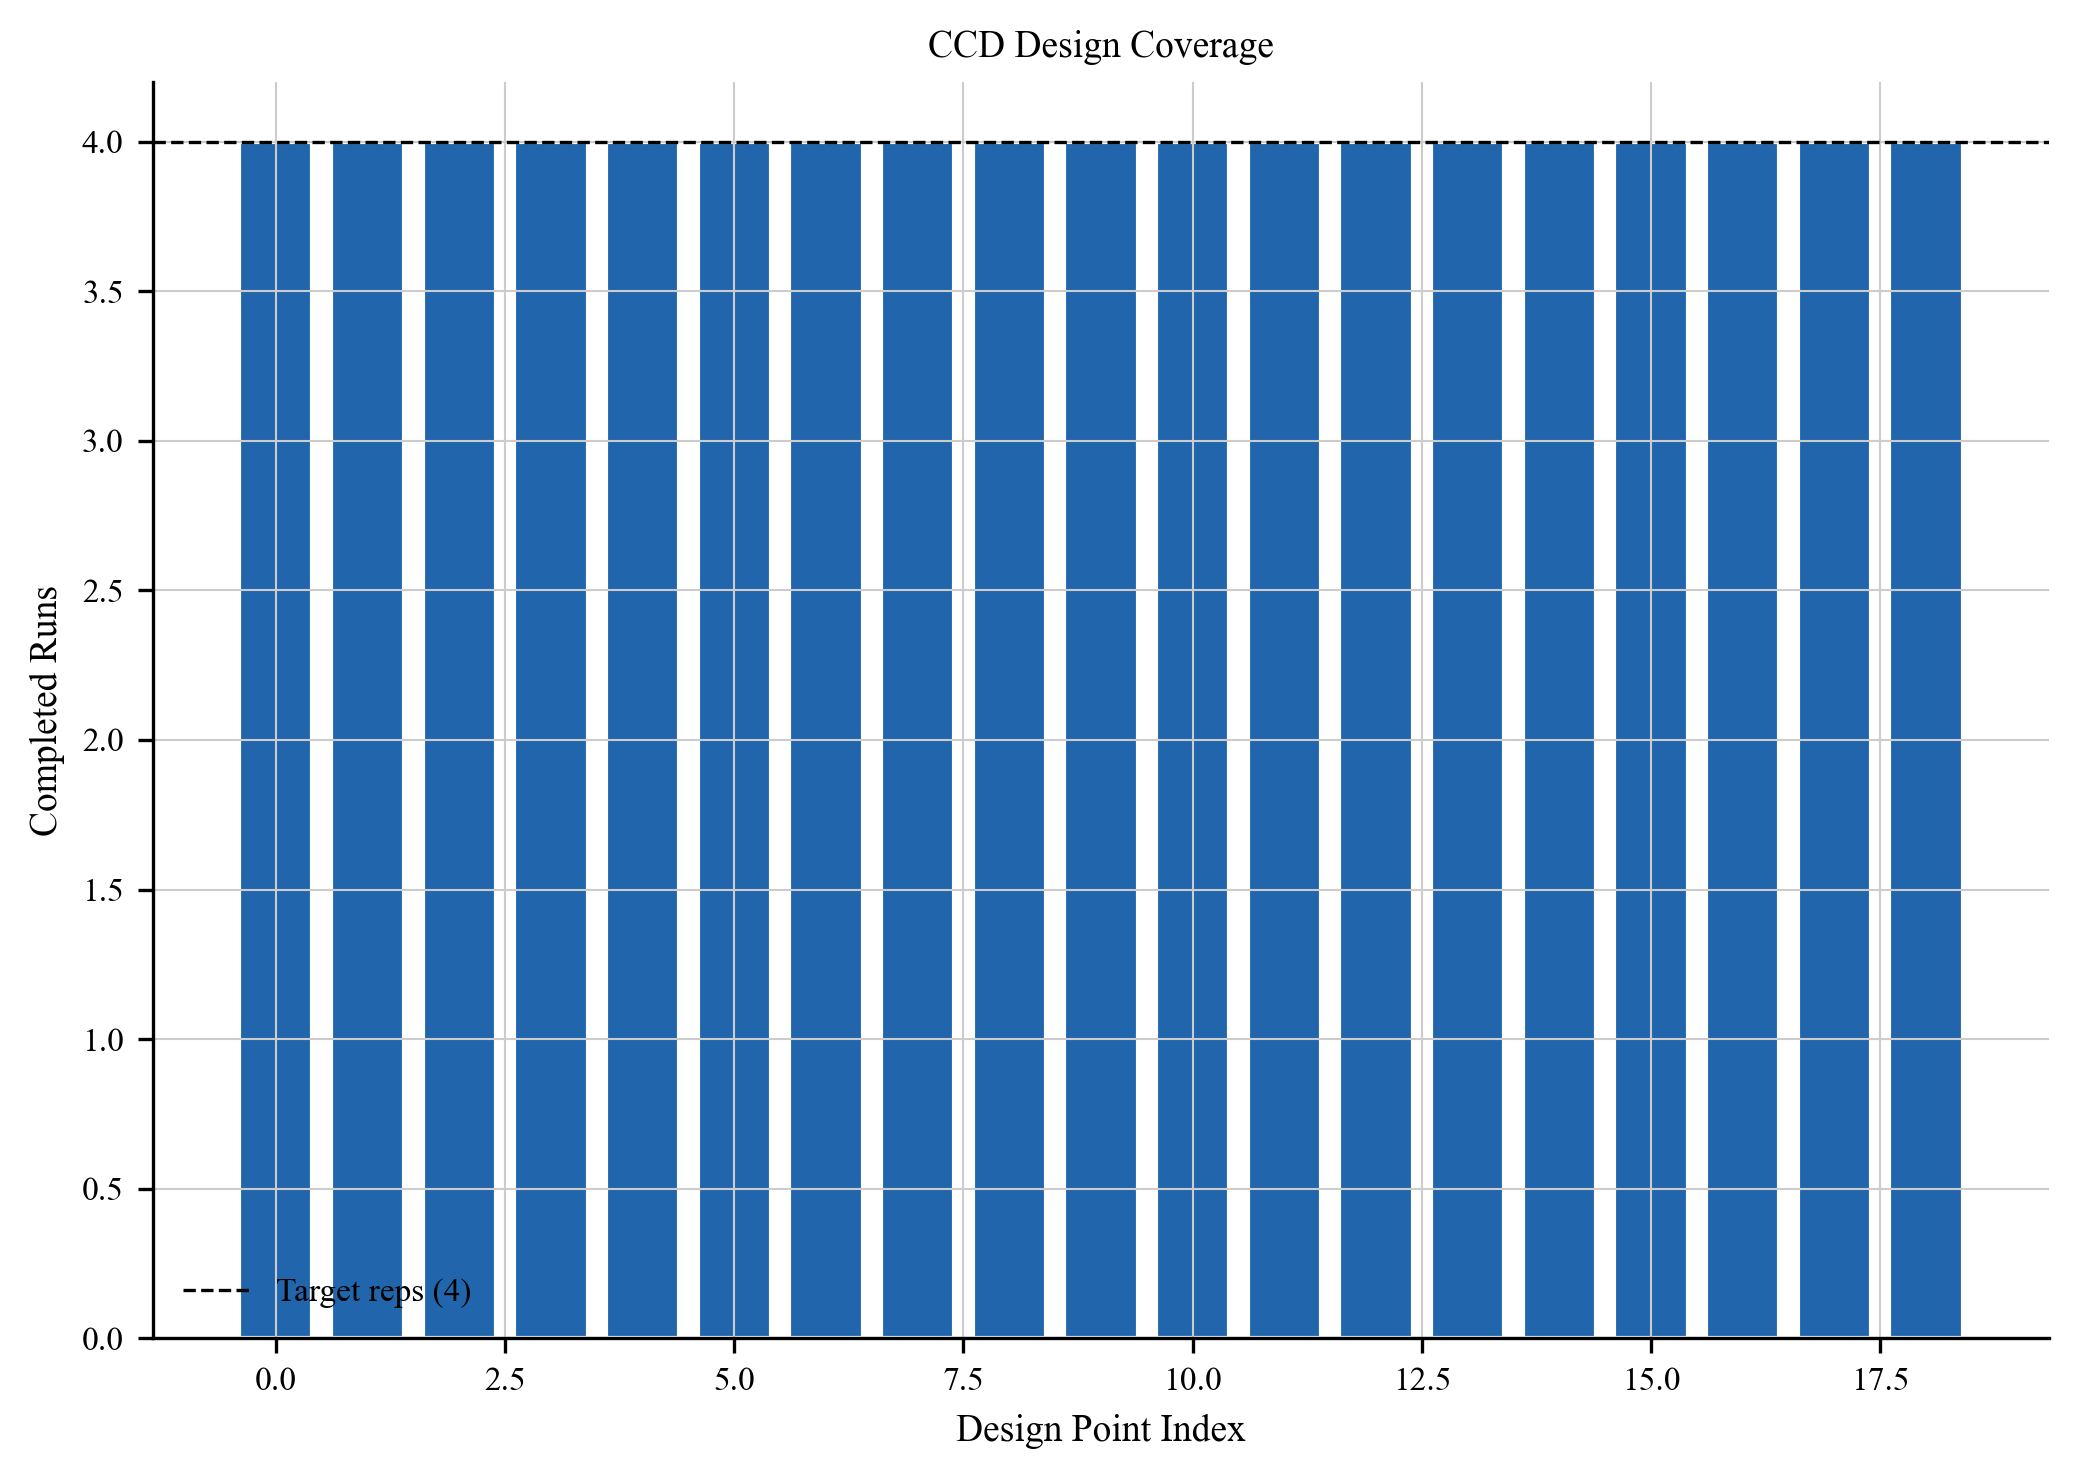
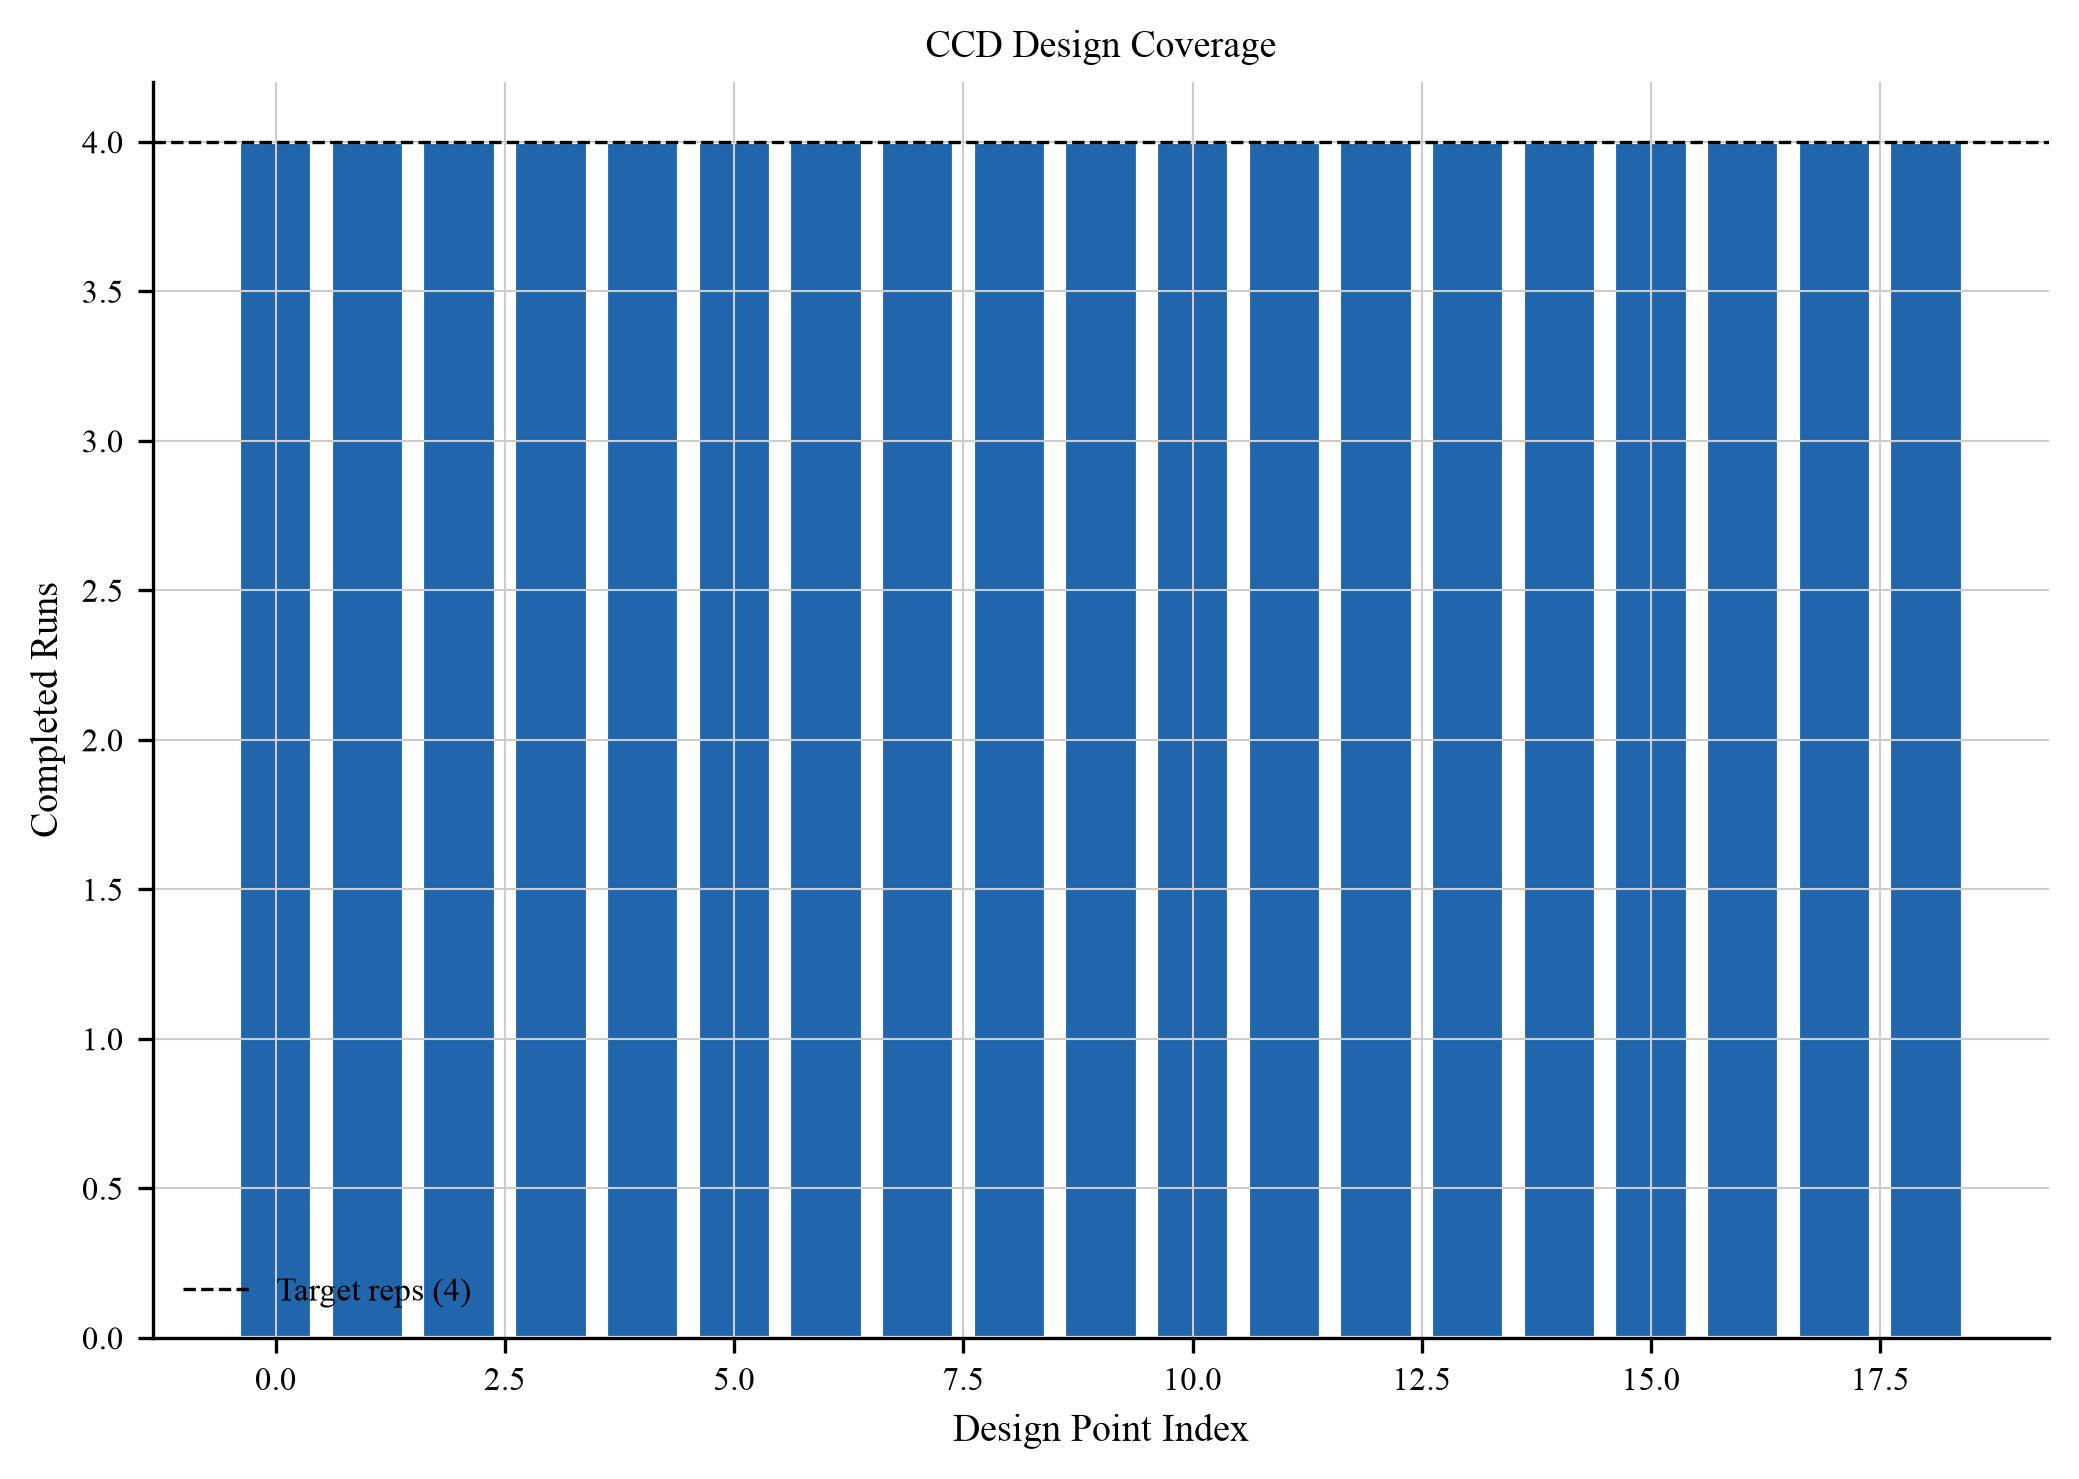
Fix CI lint failures (ruff version drift pulled in new default rules)
An unpinned `pip install ruff` in CI now resolves to a newer Ruff with a
broader default rule set than what passed at the initial commit, breaking
the Lint workflow on unrelated pre-existing code.

- adaptive_tuner.py, sweep.py, analyse_sweep.py: Optional[X] -> X | None,
  drop now-unused `typing.Optional` imports, mutable default arg on
  fit_rsm(), implicit Optional on write_summary()'s rsm_ptl param.
- analyse_sweep.py: parenthesize implicitly-concatenated f-strings in
  write_summary()'s descriptive lines (style only, ruff format applied).
- roc_analysis.py: dict(...) call rewritten as a literal.
- sweep.py: 5x DTZ005 (naive datetime.now()) and 2x BLE001 (broad except)
  left as-is and suppressed via pyproject.toml per-file-ignores — fixing
  these for real would change recorded timestamp semantics and narrow
  error handling in the live data-collection script, which is a behavior
  decision, not a lint fix.
- pyproject.toml: also excludes docs/METRICS_CONTRACT.md from `ruff
  format`, which otherwise reformats its fenced ```python schema block
  and destroys its hand-aligned inline comments.
- Regenerate papers/paper1/figures/ (same underlying data/numbers, PNGs
  re-rendered after the analyse_sweep.py touch-ups above).

diff --git a/sources/analyse_sweep.py b/sources/analyse_sweep.py
@@ -26,14 +26,14 @@ from pathlib import Path
 import matplotlib
 
 matplotlib.use("Agg")  # non-interactive backend for PNG output
-import matplotlib.pyplot as plt
 import matplotlib.patches as mpatches
+import matplotlib.pyplot as plt
 import numpy as np
 import pandas as pd
 from scipy import stats
-from sklearn.preprocessing import PolynomialFeatures
 from sklearn.linear_model import LinearRegression
 from sklearn.metrics import r2_score
+from sklearn.preprocessing import PolynomialFeatures
 
 # ── ANALYSIS CONFIG ────────────────────────────────────────────────────────────
 # Edit these values to control filtering and output behaviour.
@@ -151,7 +151,9 @@ def apply_filters(df: pd.DataFrame, cfg: dict) -> pd.DataFrame:
     df = df[~df["warmup"].fillna(False)]
 
     # Drop rows missing primary DVs
-    df = df.dropna(subset=["fpr", "tl_ms", "ptl_ms", "threshold", "silence_ms", "prefix_ms"])
+    df = df.dropna(
+        subset=["fpr", "tl_ms", "ptl_ms", "threshold", "silence_ms", "prefix_ms"]
+    )
 
     n_after = len(df)
     print(
@@ -176,8 +178,11 @@ def code_variables(df: pd.DataFrame) -> pd.DataFrame:
     return df
 
 
-def fit_rsm(df: pd.DataFrame, outcome: str, covariates: list[str] = []) -> dict:
+def fit_rsm(
+    df: pd.DataFrame, outcome: str, covariates: list[str] | None = None
+) -> dict:
     """Fit second-order RSM model. Returns coefficients, R², p-values."""
+    covariates = covariates or []
     X_raw = df[["x1", "x2", "x3"]].values
     y = df[outcome].values
 
@@ -628,8 +633,13 @@ def write_pareto_model(df: pd.DataFrame, output_dir: Path):
     print(f"  Saved: {path.name}  ({len(points)} Pareto-optimal point(s))")
 
 
-def write_summary(df: pd.DataFrame, rsm_fpr: dict, rsm_tl: dict, output_dir: Path,
-                  rsm_ptl: dict = None):
+def write_summary(
+    df: pd.DataFrame,
+    rsm_fpr: dict,
+    rsm_tl: dict,
+    output_dir: Path,
+    rsm_ptl: dict | None = None,
+):
     """Write a plain-text summary table for quick inspection."""
     lines = [
         "VAD SWEEP ANALYSIS SUMMARY",
@@ -638,12 +648,18 @@ def write_summary(df: pd.DataFrame, rsm_fpr: dict, rsm_tl: dict, output_dir: Pat
         f"Annotation filter: {CONFIG['annotation_filter']}",
         "",
         "Primary outcome descriptives:",
-        f"  FPR              mean={df['fpr'].mean():.3f}  sd={df['fpr'].std():.3f}  "
-        f"min={df['fpr'].min():.3f}  max={df['fpr'].max():.3f}",
-        f"  TL (measured)    mean={df['tl_ms'].mean():.1f}ms  sd={df['tl_ms'].std():.1f}  "
-        f"min={df['tl_ms'].min():.1f}  max={df['tl_ms'].max():.1f}",
-        f"  Perceived latency mean={df['ptl_ms'].mean():.1f}ms  sd={df['ptl_ms'].std():.1f}  "
-        f"min={df['ptl_ms'].min():.1f}  max={df['ptl_ms'].max():.1f}",
+        (
+            f"  FPR              mean={df['fpr'].mean():.3f}  sd={df['fpr'].std():.3f}  "
+            f"min={df['fpr'].min():.3f}  max={df['fpr'].max():.3f}"
+        ),
+        (
+            f"  TL (measured)    mean={df['tl_ms'].mean():.1f}ms  sd={df['tl_ms'].std():.1f}  "
+            f"min={df['tl_ms'].min():.1f}  max={df['tl_ms'].max():.1f}"
+        ),
+        (
+            f"  Perceived latency mean={df['ptl_ms'].mean():.1f}ms  sd={df['ptl_ms'].std():.1f}  "
+            f"min={df['ptl_ms'].min():.1f}  max={df['ptl_ms'].max():.1f}"
+        ),
         "",
         "  NOTE: measured TL is taken from speech_stopped, which fires only after",
         "  server-VAD has already waited silence_duration_ms. Perceived latency adds",

diff --git a/sources/sweep.py b/sources/sweep.py
@@ -30,7 +30,6 @@ import threading
 from datetime import datetime
 from itertools import product
 from pathlib import Path
-from typing import Optional
 
 logger = logging.getLogger("talkwise.sweep")
 
@@ -168,11 +167,11 @@ class SweepRunner:
         sweep_runner.end_run(snapshot)             # call after session ends
     """
 
-    def __init__(self, sweep_dir: Path = None):
+    def __init__(self, sweep_dir: Path | None = None):
         self._lock = threading.Lock()
-        self._active_run: Optional[dict] = None
-        self._session_id: Optional[str] = None
-        self._run_start: Optional[datetime] = None
+        self._active_run: dict | None = None
+        self._session_id: str | None = None
+        self._run_start: datetime | None = None
 
         self._sweep_dir = sweep_dir if sweep_dir is not None else SWEEP_DIR
         self._sweep_dir.mkdir(exist_ok=True)

diff --git a/sources/adaptive_tuner.py b/sources/adaptive_tuner.py
@@ -33,7 +33,6 @@ import json
 import logging
 import time
 from pathlib import Path
-from typing import Optional
 
 logger = logging.getLogger("vad.adaptive_tuner")
 
@@ -119,7 +118,7 @@ class AdaptiveVADTuner:
 
     def __init__(
         self,
-        pareto_model: Optional[ParetoModel] = None,
+        pareto_model: ParetoModel | None = None,
         omega: float = 0.7,
         update_interval_s: float = 30.0,
         delta: float = DEFAULT_DELTA,
@@ -139,8 +138,8 @@ class AdaptiveVADTuner:
         self.update_interval_s = update_interval_s
         self.delta = delta
 
-        self._current_config: Optional[dict] = None
-        self._last_update_time: Optional[float] = None
+        self._current_config: dict | None = None
+        self._last_update_time: float | None = None
         self._n_updates: int = 0
 
         if pareto_model is not None:

diff --git a/sources/roc_analysis.py b/sources/roc_analysis.py
@@ -492,9 +492,12 @@ def plot_roc_combined(curves: list, alpha: float, n_turns: int, out_dir: Path):
         fontsize=7,
         ha="right",
         va="bottom",
-        bbox=dict(
-            boxstyle="round,pad=0.3", facecolor="white", edgecolor="#cccccc", alpha=0.9
-        ),
+        bbox={
+            "boxstyle": "round,pad=0.3",
+            "facecolor": "white",
+            "edgecolor": "#cccccc",
+            "alpha": 0.9,
+        },
     )
 
     ax.set_title("Combined ROC — All Decision Boundaries")
